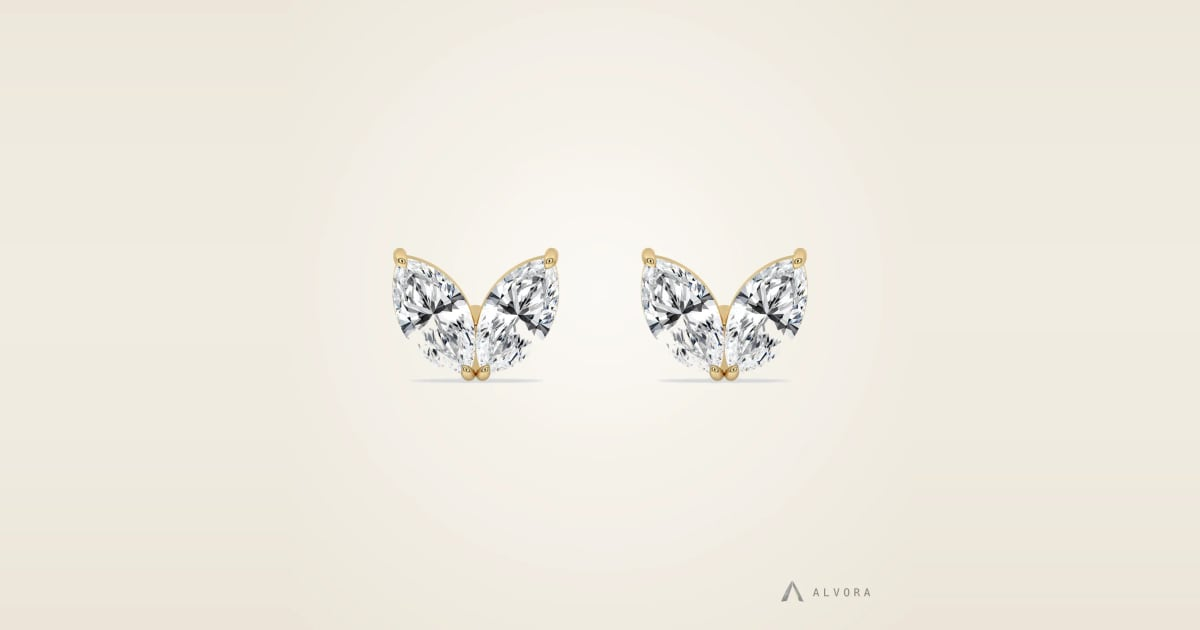
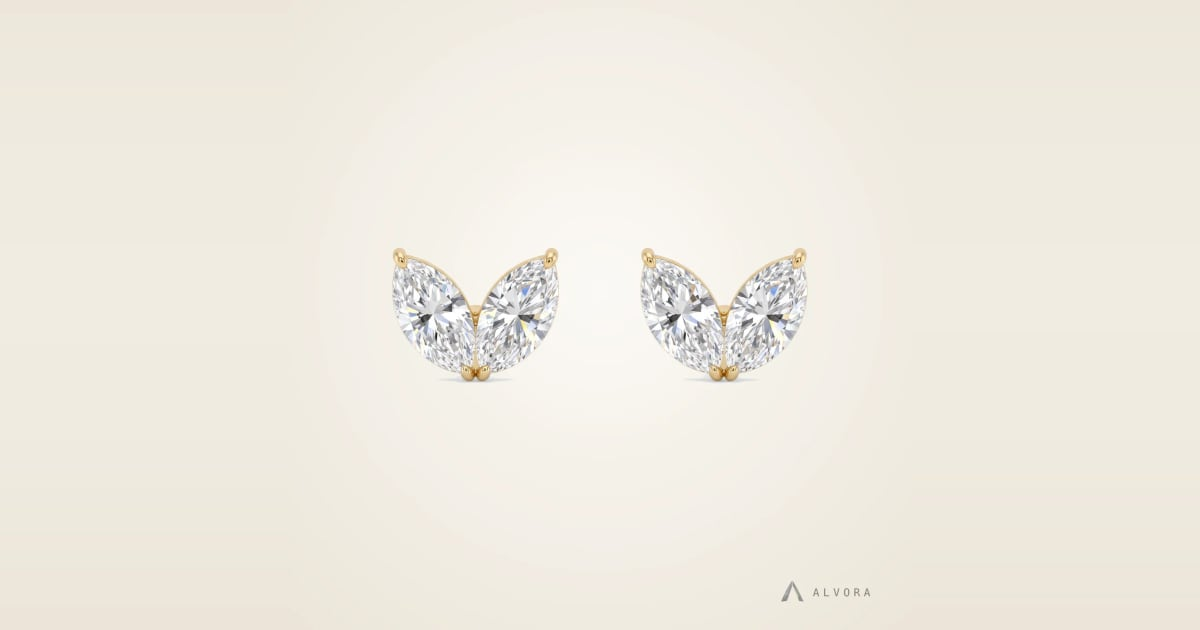
Jewellery: owner-approved AI photos for the 3-piece trial
- 17 approved photos for ALV-R-0001, ALV-R-0026 and ALV-E-0006 (sharper
  studio photos and new hand/model/close-up/side shots); 3 rejected.
- Retries use catalogue facts (east-west setting, stone cut) and the
  owner's rejection notes; each remake gets its own review id.
- apply reads the review page's saved decisions directly.
- Link previews rebuilt for the three pieces.
- Catalogue test allows ai-*.webp names (still no partner names).

Claude-Session: https://claude.ai/code/session_01NxNh2nE7VG5daKjmdJBKE6

Changed region(s): [[0.5242, 0.3921, 0.6783, 0.6032], [0.3083, 0.3921, 0.4625, 0.6032]]

diff --git a/server/jewelleryCatalog.test.ts b/server/jewelleryCatalog.test.ts
@@ -73,7 +73,7 @@ describe("jewellery catalogue", () => {
 
   it("serves image paths only under the Alvora asset folder", () => {
     for (const piece of ALL_PIECES) {
-      for (const image of piece.images) expect(image.src).toMatch(/^\/assets\/jewellery\/alv-[a-z]-\d{4}\/\d{2}\.webp$/);
+      for (const image of piece.images) expect(image.src).toMatch(/^\/assets\/jewellery\/alv-[a-z]-\d{4}\/(\d{2}|ai-[a-z]+(-\d{2})?)\.webp$/);
     }
   });
 

diff --git a/CLAUDE.md b/CLAUDE.md
@@ -65,6 +65,19 @@ before big changes, and end each work session with a short summary.
   The committed output in `client/public/assets/jewellery/alv-r-0042/` is the
   source of truth; if raw photos are re-downloaded, keep that override.
 
+## AI photo upgrade (owner-approved only)
+- `pnpm jewellery:ai-photos generate|review|apply` (`scripts/jewellery/ai-photos.mjs`):
+  sharper redraws of studio photos + new styled shots (hand, model, close-up,
+  side view) made from the piece's own studio photos. Candidates are
+  git-ignored; **only photos the owner approves** on the private review page
+  are copied to the site as `ai-*.webp`, listed in
+  `data/jewellery/ai-photos/approved.json` (decisions and rejection notes in
+  `decisions.json`; notes are fed into the next retry). The catalogue build
+  keeps them when raw photos are re-processed.
+- Status (2026-09-25): trial on ALV-R-0001, ALV-R-0026, ALV-E-0006 (17
+  approved). Gemini stopped by the owner on cost (about 13 INR per image);
+  choose a cheaper provider before running the other 62 pieces.
+
 ## Homepage hero photos
 - The homepage rotates the owner's photos (cross-fade every 6s; still for
   reduced-motion visitors). Current set (2026-09-25): 4 photos, two with a

diff --git a/JEWELLERY_RUNBOOK.md b/JEWELLERY_RUNBOOK.md
@@ -39,6 +39,16 @@ Add `--keep-background` to skip the background swap, or `--size 2000` for larger
 
 **Watermark logo:** save your logo (the version with the ALVORA wordmark underneath) as `client/public/assets/brand/alvora-logo.png`. The watermark then uses it automatically. You can also brand any single photo with `pnpm brand:image photo.jpg --out some-folder`.
 
+## AI photo upgrade
+
+Sharper versions of the studio photos and new styled photos (on a hand, on a model, close-up, side view) are made by AI, then approved by you one by one. Nothing reaches the site until you approve it.
+
+1. `pnpm jewellery:ai-photos generate --pieces ALV-R-0001,ALV-E-0006` (or `--all`). Needs an image AI key.
+2. `pnpm jewellery:ai-photos review` builds the approval page's photos; Claude publishes the page for you.
+3. After you approve or reject each photo: `pnpm jewellery:ai-photos apply --decisions <saved decisions>`, then `pnpm jewellery:build` and `pnpm social:images`.
+
+Rejected photos can be remade with `generate --retry-rejected`; your rejection note is given to the AI.
+
 ## Names, prices and hiding a piece
 
 All in `data/jewellery/pieces.json`. After editing, run `pnpm jewellery:build`.
